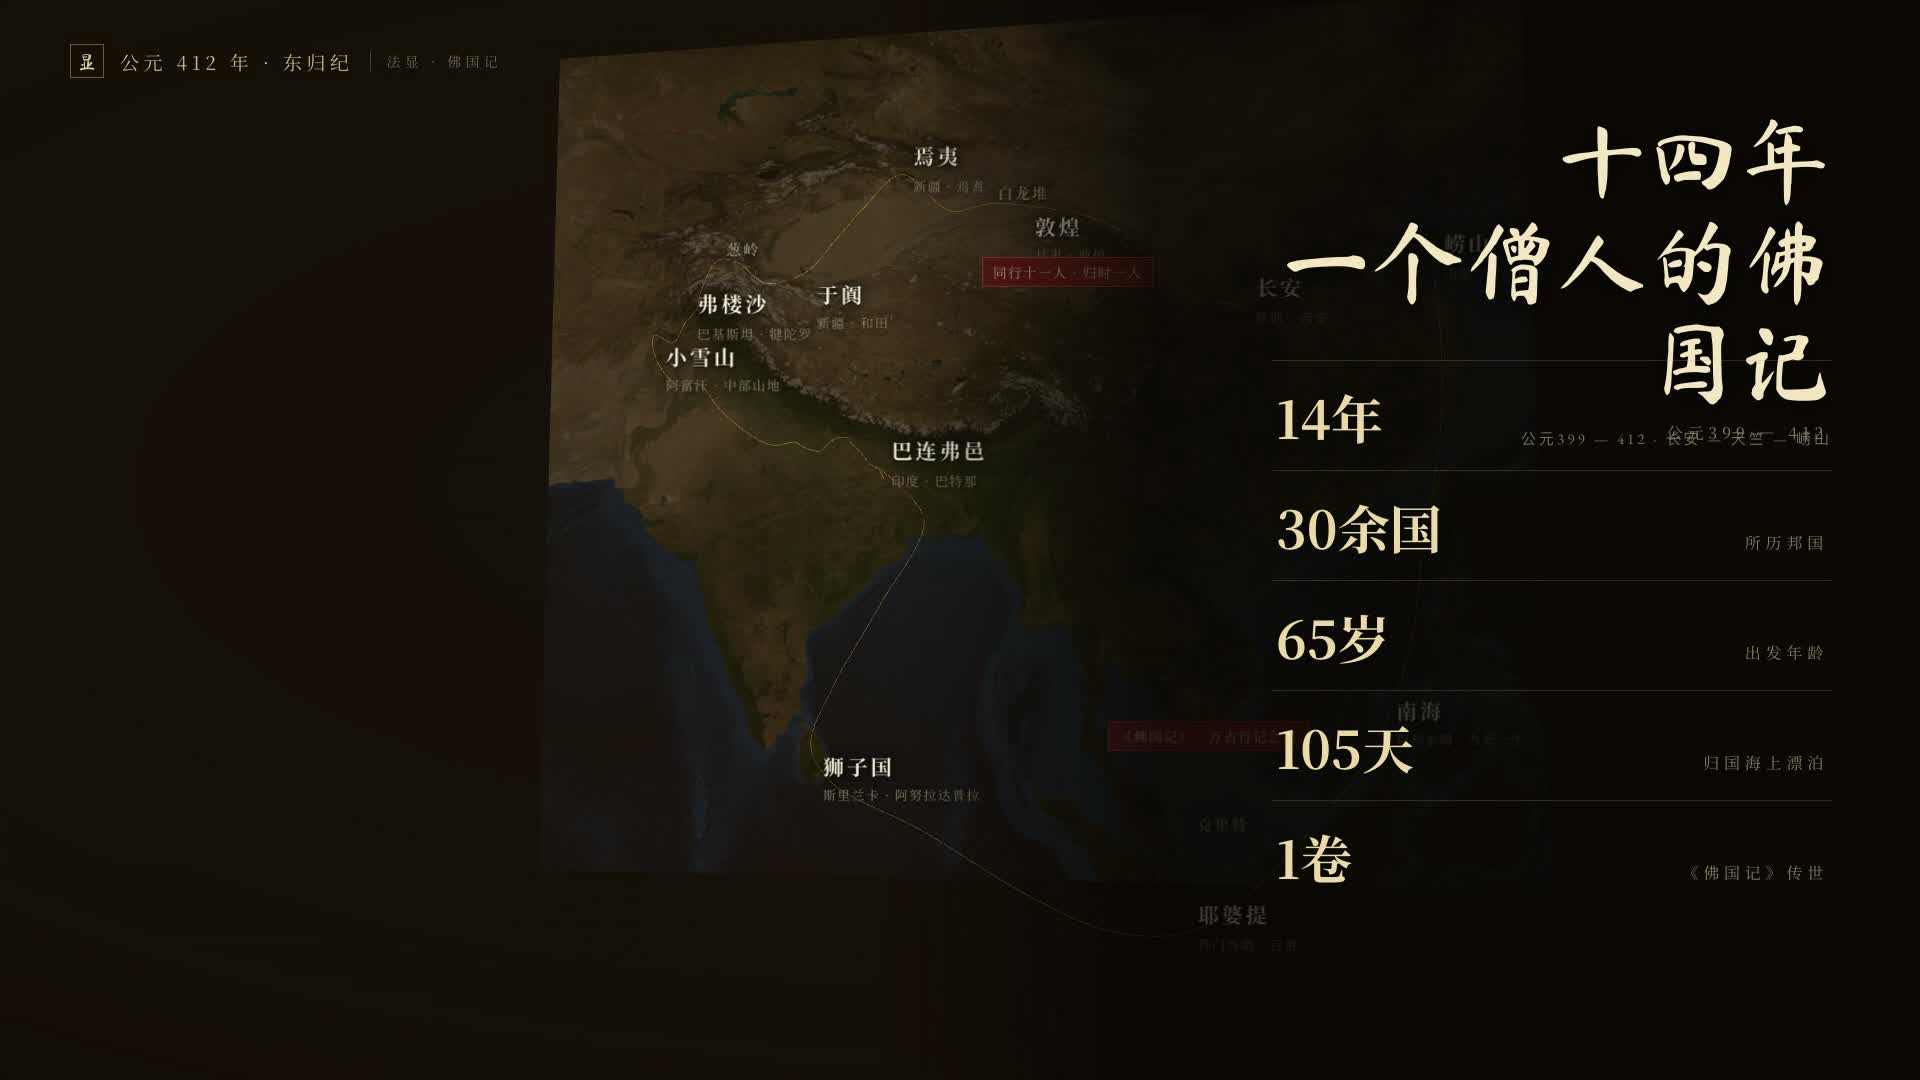
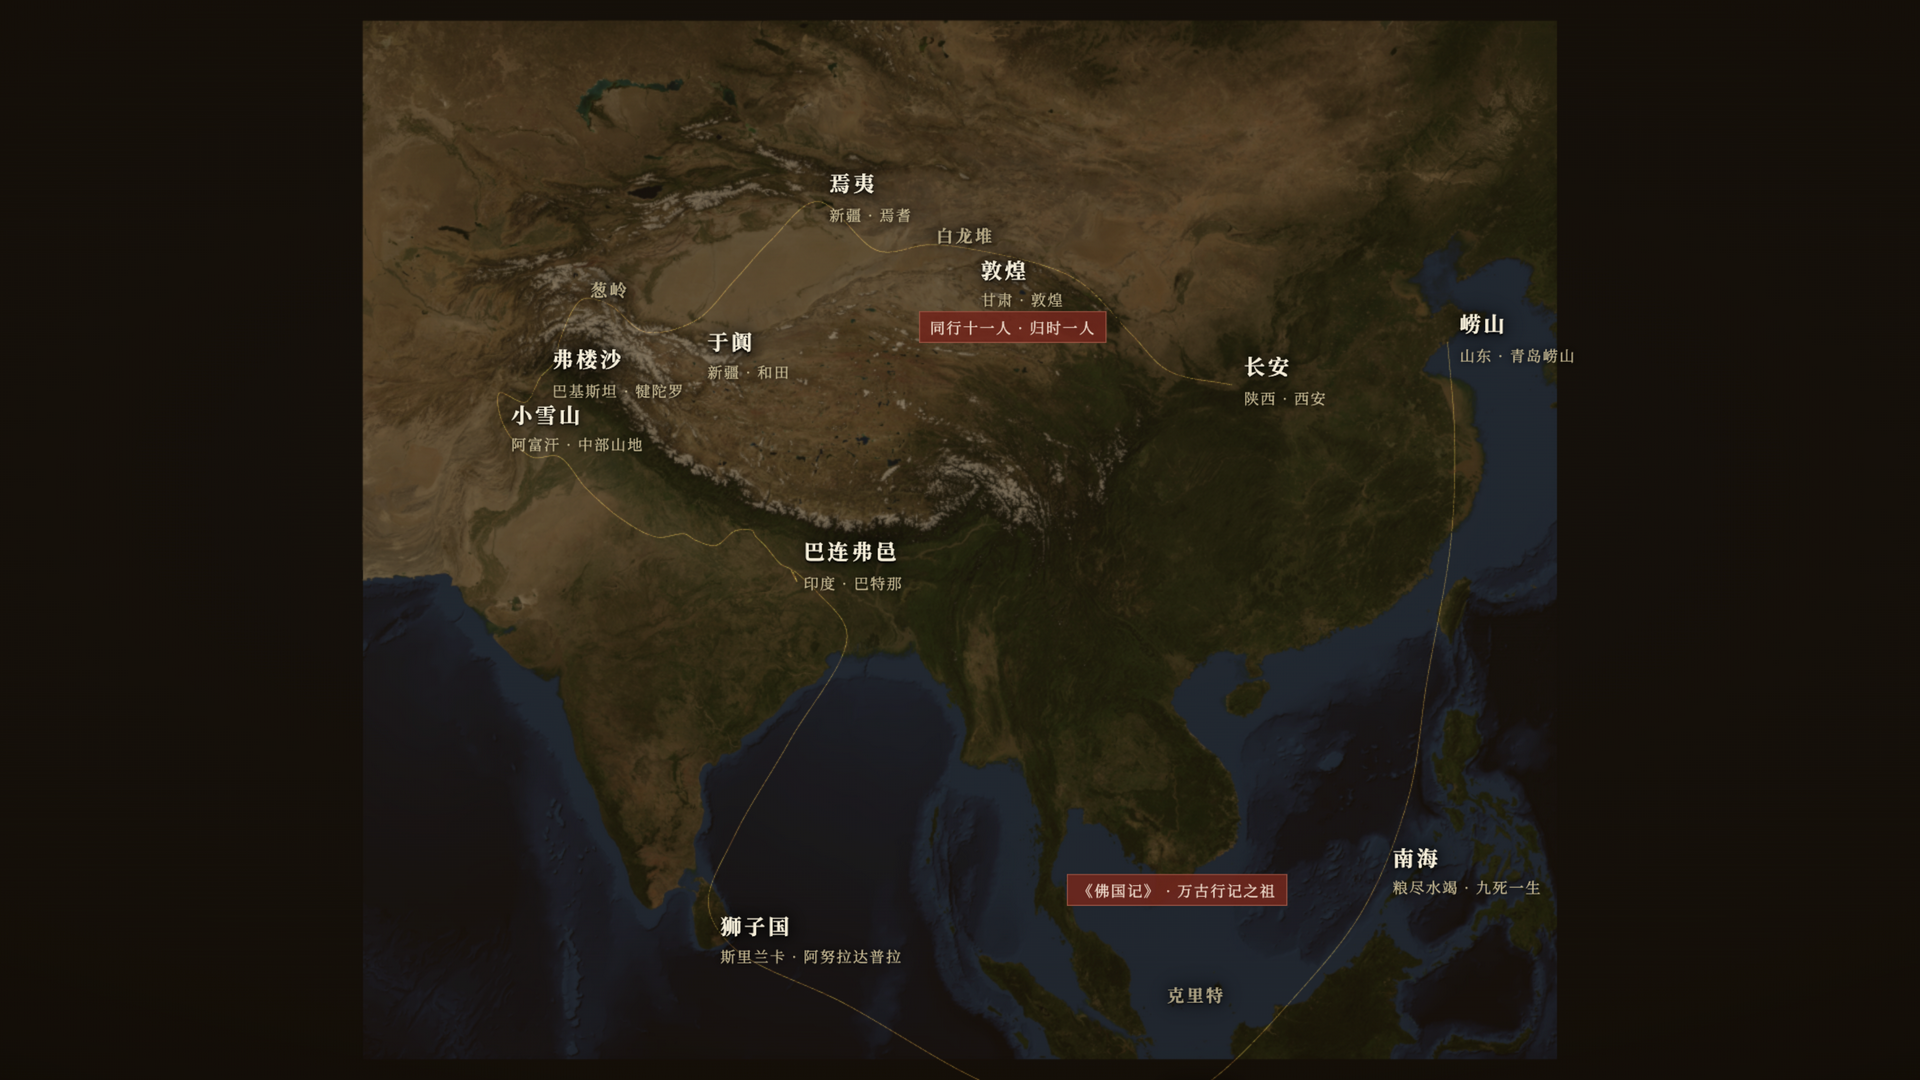
fix: 封面正俯视重截 + 总览标题差异化 + 互动卡片常驻 + 知识卡最小化 + UI字体增大

diff --git a/marcopolo/interactive.html b/marcopolo/interactive.html
@@ -189,6 +189,23 @@
       #credits .col p { color: #8a8069; font-size: 15px; line-height: 1.9; letter-spacing: 0.03em; }
       #credits .rend { margin-top: 56px; color: #6f6650; font-size: 14px; letter-spacing: 0.2em; font-family: Georgia, serif; }
 
+
+      /* 卡片最小化 */
+      #stationcard.minimized { padding: 0; overflow: hidden; }
+      #stationcard.minimized #card-head { padding: 10px 18px; }
+      #stationcard.minimized #card-art,
+      #stationcard.minimized #card-title,
+      #stationcard.minimized #card-name-row,
+      #stationcard.minimized #card-text { display: none !important; }
+      #stationcard.minimized { width: auto; min-width: 220px; }
+      #card-min {
+        position: absolute; right: 8px; top: 8px; z-index: 11;
+        width: 28px; height: 28px; border: 1px solid rgba(206,166,92,0.4);
+        background: rgba(14,11,8,0.7); color: #e0cf9f; font-size: 14px;
+        cursor: pointer; display: flex; align-items: center; justify-content: center;
+        border-radius: 4px; transition: all 0.15s; line-height: 1;
+      }
+      #card-min:hover { background: rgba(96,74,36,0.9); border-color: #e8cf8e; }
       #fade { position: absolute; inset: 0; background: #000; opacity: 0; z-index: 20; pointer-events: none; }
 
       /* ================= 互动控件层 ================= */
@@ -299,14 +316,14 @@
       <div id="overview">
         <div id="ov-head">
           <div id="ov-h1">十七年<br />一个商人的东游记</div>
-          J71 — 1295 · 威尼斯 — 大都 — 威尼斯</div>
+          <div id="ov-era">1271 — 1295 · 威尼斯 — 大都 — 威尼斯</div>
         </div>
         <div id="stats"></div>
       </div>
 
       <div id="topleft">
         <div class="mark" id="tl-mark">马</div>
-        J71 年 · 东行纪</div>
+        <div id="tl-era">1271 年 · 东行纪</div>
         <div class="wm" id="tl-wm">马可·波罗 · 东行记</div>
       </div>
 
@@ -325,7 +342,8 @@
       <div id="stationcard">
         <div id="card-head">
           <div id="card-no">第 01 站</div>
-          <div id="card-coord">34.27°N · 108.94°E</div>
+          <div id="card-min">−</div>
+        <div id="card-coord">34.27°N · 108.94°E</div>
         </div>
         <img id="card-art" alt="" />
         <div id="card-title">誓愿西行</div>
@@ -337,7 +355,7 @@
       </div>
 
       <div id="titlecard">
-        J71 · 元世祖至元八年</div>
+        <div id="title-era">1271 · 元世祖至元八年</div>
         <div id="title-main">马可·波罗东行</div>
         <div id="title-sub">十七年 · 从威尼斯到大都</div>
         <div id="title-sub-en">MARCO POLO · VENICE - KHANBALIK - VENICE</div>

diff --git a/faxian/interactive.html b/faxian/interactive.html
@@ -189,6 +189,23 @@
       #credits .col p { color: #8a8069; font-size: 15px; line-height: 1.9; letter-spacing: 0.03em; }
       #credits .rend { margin-top: 56px; color: #6f6650; font-size: 14px; letter-spacing: 0.2em; font-family: Georgia, serif; }
 
+
+      /* 卡片最小化 */
+      #stationcard.minimized { padding: 0; overflow: hidden; }
+      #stationcard.minimized #card-head { padding: 10px 18px; }
+      #stationcard.minimized #card-art,
+      #stationcard.minimized #card-title,
+      #stationcard.minimized #card-name-row,
+      #stationcard.minimized #card-text { display: none !important; }
+      #stationcard.minimized { width: auto; min-width: 220px; }
+      #card-min {
+        position: absolute; right: 8px; top: 8px; z-index: 11;
+        width: 28px; height: 28px; border: 1px solid rgba(206,166,92,0.4);
+        background: rgba(14,11,8,0.7); color: #e0cf9f; font-size: 14px;
+        cursor: pointer; display: flex; align-items: center; justify-content: center;
+        border-radius: 4px; transition: all 0.15s; line-height: 1;
+      }
+      #card-min:hover { background: rgba(96,74,36,0.9); border-color: #e8cf8e; }
       #fade { position: absolute; inset: 0; background: #000; opacity: 0; z-index: 20; pointer-events: none; }
 
       /* ================= 互动控件层 ================= */
@@ -325,7 +342,8 @@
       <div id="stationcard">
         <div id="card-head">
           <div id="card-no">第 01 站</div>
-          <div id="card-coord">34.27°N · 108.94°E</div>
+          <div id="card-min">−</div>
+        <div id="card-coord">34.27°N · 108.94°E</div>
         </div>
         <img id="card-art" alt="" />
         <div id="card-title">誓愿西行</div>

diff --git a/xuanzang/interactive.html b/xuanzang/interactive.html
@@ -189,6 +189,23 @@
       #credits .col p { color: #8a8069; font-size: 15px; line-height: 1.9; letter-spacing: 0.03em; }
       #credits .rend { margin-top: 56px; color: #6f6650; font-size: 14px; letter-spacing: 0.2em; font-family: Georgia, serif; }
 
+
+      /* 卡片最小化 */
+      #stationcard.minimized { padding: 0; overflow: hidden; }
+      #stationcard.minimized #card-head { padding: 10px 18px; }
+      #stationcard.minimized #card-art,
+      #stationcard.minimized #card-title,
+      #stationcard.minimized #card-name-row,
+      #stationcard.minimized #card-text { display: none !important; }
+      #stationcard.minimized { width: auto; min-width: 220px; }
+      #card-min {
+        position: absolute; right: 8px; top: 8px; z-index: 11;
+        width: 28px; height: 28px; border: 1px solid rgba(206,166,92,0.4);
+        background: rgba(14,11,8,0.7); color: #e0cf9f; font-size: 14px;
+        cursor: pointer; display: flex; align-items: center; justify-content: center;
+        border-radius: 4px; transition: all 0.15s; line-height: 1;
+      }
+      #card-min:hover { background: rgba(96,74,36,0.9); border-color: #e8cf8e; }
       #fade { position: absolute; inset: 0; background: #000; opacity: 0; z-index: 20; pointer-events: none; }
 
       /* ================= 互动控件层 ================= */
@@ -325,7 +342,8 @@
       <div id="stationcard">
         <div id="card-head">
           <div id="card-no">第 01 站</div>
-          <div id="card-coord">34.27°N · 108.94°E</div>
+          <div id="card-min">−</div>
+        <div id="card-coord">34.27°N · 108.94°E</div>
         </div>
         <img id="card-art" alt="" />
         <div id="card-title">誓愿西行</div>

diff --git a/zhangqian/interactive.html b/zhangqian/interactive.html
@@ -189,6 +189,23 @@
       #credits .col p { color: #8a8069; font-size: 15px; line-height: 1.9; letter-spacing: 0.03em; }
       #credits .rend { margin-top: 56px; color: #6f6650; font-size: 14px; letter-spacing: 0.2em; font-family: Georgia, serif; }
 
+
+      /* 卡片最小化 */
+      #stationcard.minimized { padding: 0; overflow: hidden; }
+      #stationcard.minimized #card-head { padding: 10px 18px; }
+      #stationcard.minimized #card-art,
+      #stationcard.minimized #card-title,
+      #stationcard.minimized #card-name-row,
+      #stationcard.minimized #card-text { display: none !important; }
+      #stationcard.minimized { width: auto; min-width: 220px; }
+      #card-min {
+        position: absolute; right: 8px; top: 8px; z-index: 11;
+        width: 28px; height: 28px; border: 1px solid rgba(206,166,92,0.4);
+        background: rgba(14,11,8,0.7); color: #e0cf9f; font-size: 14px;
+        cursor: pointer; display: flex; align-items: center; justify-content: center;
+        border-radius: 4px; transition: all 0.15s; line-height: 1;
+      }
+      #card-min:hover { background: rgba(96,74,36,0.9); border-color: #e8cf8e; }
       #fade { position: absolute; inset: 0; background: #000; opacity: 0; z-index: 20; pointer-events: none; }
 
       /* ================= 互动控件层 ================= */
@@ -325,7 +342,8 @@
       <div id="stationcard">
         <div id="card-head">
           <div id="card-no">第 01 站</div>
-          <div id="card-coord">34.27°N · 108.94°E</div>
+          <div id="card-min">−</div>
+        <div id="card-coord">34.27°N · 108.94°E</div>
         </div>
         <img id="card-art" alt="" />
         <div id="card-title">誓愿西行</div>

diff --git a/archimedes/interactive.html b/archimedes/interactive.html
@@ -189,6 +189,23 @@
       #credits .col p { color: #8a8069; font-size: 15px; line-height: 1.9; letter-spacing: 0.03em; }
       #credits .rend { margin-top: 56px; color: #6f6650; font-size: 14px; letter-spacing: 0.2em; font-family: Georgia, serif; }
 
+
+      /* 卡片最小化 */
+      #stationcard.minimized { padding: 0; overflow: hidden; }
+      #stationcard.minimized #card-head { padding: 10px 18px; }
+      #stationcard.minimized #card-art,
+      #stationcard.minimized #card-title,
+      #stationcard.minimized #card-name-row,
+      #stationcard.minimized #card-text { display: none !important; }
+      #stationcard.minimized { width: auto; min-width: 220px; }
+      #card-min {
+        position: absolute; right: 8px; top: 8px; z-index: 11;
+        width: 28px; height: 28px; border: 1px solid rgba(206,166,92,0.4);
+        background: rgba(14,11,8,0.7); color: #e0cf9f; font-size: 14px;
+        cursor: pointer; display: flex; align-items: center; justify-content: center;
+        border-radius: 4px; transition: all 0.15s; line-height: 1;
+      }
+      #card-min:hover { background: rgba(96,74,36,0.9); border-color: #e8cf8e; }
       #fade { position: absolute; inset: 0; background: #000; opacity: 0; z-index: 20; pointer-events: none; }
 
       /* ================= 互动控件层 ================= */
@@ -326,7 +343,8 @@
       <div id="stationcard">
         <div id="card-head">
           <div id="card-no">第 01 站</div>
-          <div id="card-coord">37.07°N · 15.29°E</div>
+          <div id="card-min">−</div>
+        <div id="card-coord">37.07°N · 15.29°E</div>
         </div>
         <img id="card-art" alt="" />
         <div id="card-title">几何之子</div>
